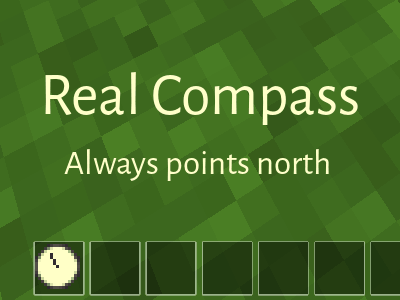
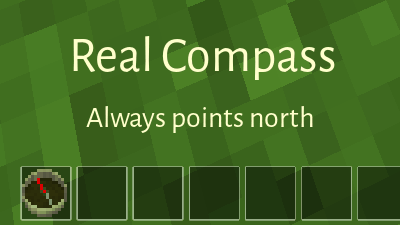
New textures, back to 12 directions.

diff --git a/README.md b/README.md
@@ -15,34 +15,29 @@ This mod tries to address what the "real" essence of being a compass is all abou
 
 No options, no gui's, just an animated needle that points toward the north.
 
-The only other change that I made was, that since compasses are typically divided up in 1/4th, 
-1/8th, and 1/16th divisions, I updated it to point in 16 directions rather than the original 12.
+I'm now using compass textures derived from the wonderful ones created by tacotexmex for ccompass.
+I changed the colors and crafting recipe so that it can hopefully be used in parallel with ccompass,
+since they both provide different features.
+
+I have also gone back to using the original 12 pointing directions to make the animations look cleaner.
+
 
 ![Realcompass Screenshot](screenshot.png "Realcompass")
-
-I've converted the better looking ccompass textures to 16 directions and placed them in the
-textures_alt directory for testing.
-
-To use them, rename the "textures_alt" directory to "textures". 
-
-![Realcompass_alt Screenshot](screenshot_alt.png "Realcompass_alt")
 
 
 Crafting guide
 --------------
-Same crafting recipe as the other compass versions, so it's probably not compatible with them.
 
 ```
              , steel_ingot          ,
-  steel_ingot, mese_crystal_fragment, steel_ingot
-             , steel_ingot          ,
+  copper_ingot, mese_crystal_fragment, copper_ingot
+             , copper_ingot          ,
 ```
 
 
 License
 -------
-- **original textures:** original compass textures: CC BY-SA by Echo (45deg versions added by kestral246 also CC BY-SA)
-- **new textures:** from ccompass, textures CC BY-SA by tacotexmex (45deg versions added by kestral246 also CC BY-SA)
+- **new textures:** from ccompass, textures CC BY-SA by tacotexmex (colors changed by kestral246 also CC BY-SA)
 - **code:**  My changes to original code are CC0-1.0
 - **original compassgps license:** Original code by Echo, PilzAdam, and TeTpaAka is WTFPL. Kilarin (Donald Hines) changes are CC0 (No rights reserved)
 
